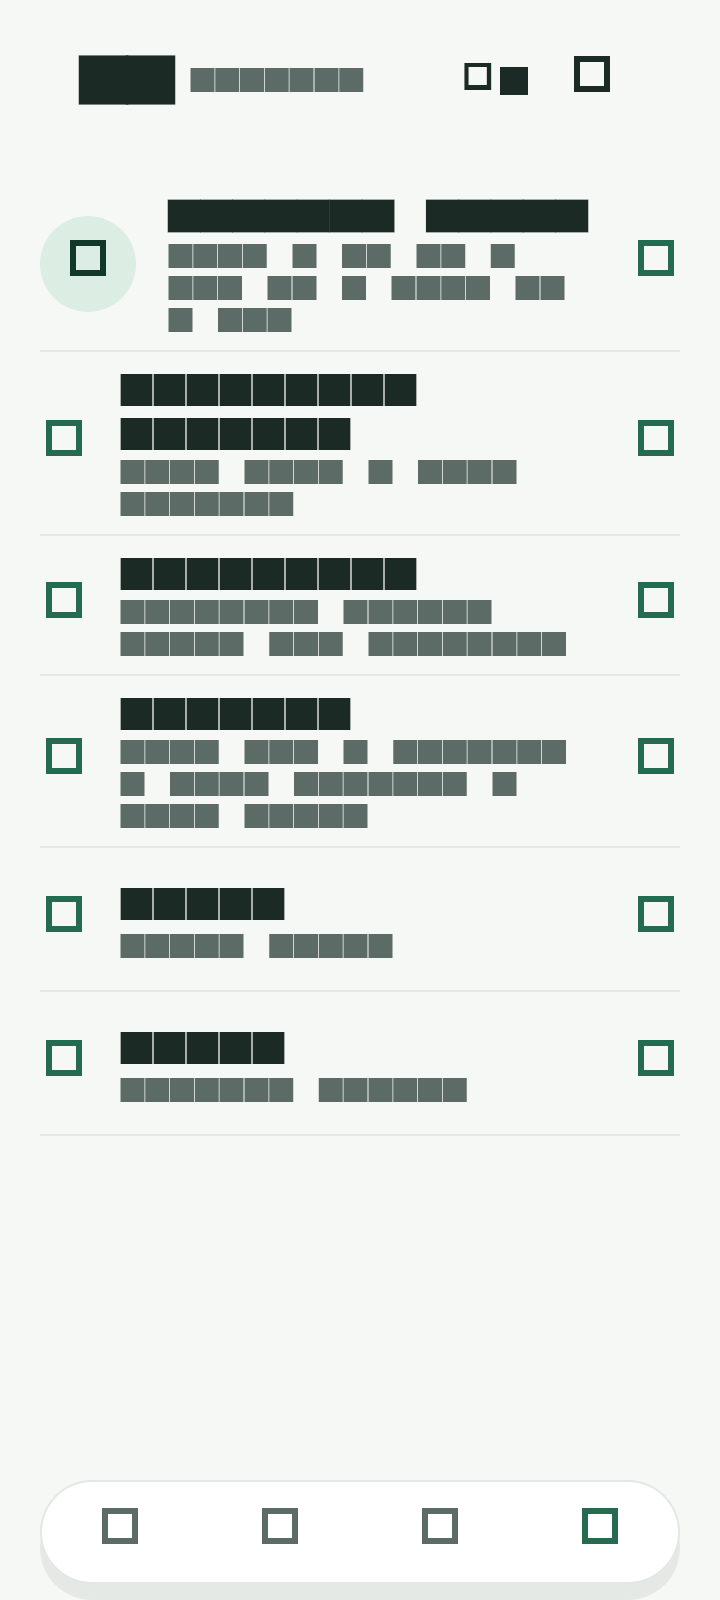
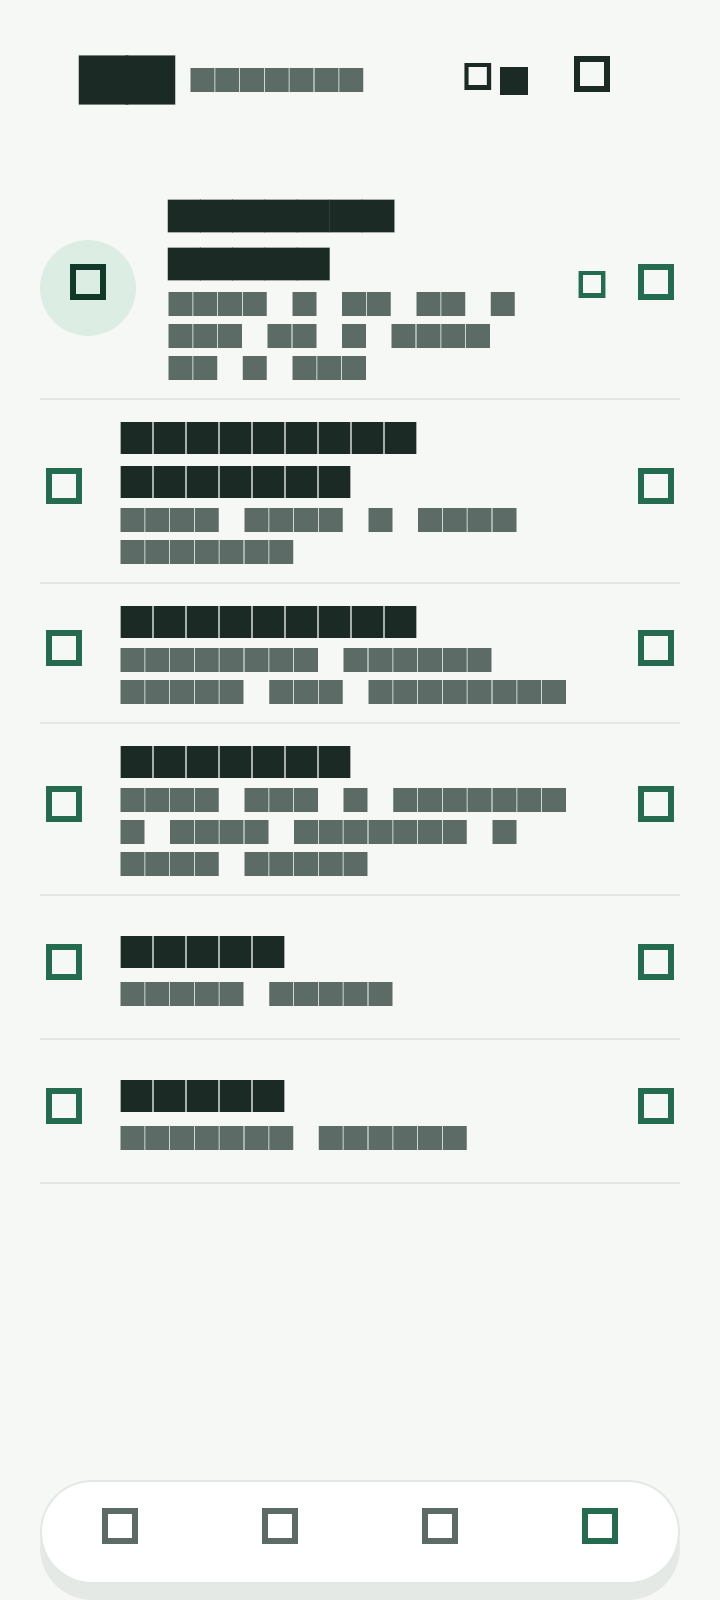
feat(profile): editable name + left-right picker fields
1. _PickerField (every AppDropdown / AppOptionalDropdown across the app) now
   lays out label on the left, value + chevron on the right — not stacked
2. the "健身小伙伴" name is now user-editable: a pencil on the profile avatar
   row opens a rename dialog; stored in prefs (`user_name`) via
   userNameProvider, falls back to the default greeting when empty

analyze clean; full suite green (158); goldens regenerated.

Claude-Session: https://claude.ai/code/session_01CWB8cLUtUBP9ZBJ1jWMsCM

diff --git a/lib/ui/profile/profile_page.dart b/lib/ui/profile/profile_page.dart
@@ -75,6 +75,39 @@ class _ProfilePageState extends ConsumerState<ProfilePage> {
     }
   }
 
+  Future<void> _renameUser() async {
+    final l10n = context.l10n;
+    final controller = TextEditingController(
+      text: ref.read(userNameProvider) ?? '',
+    );
+    final name = await showDialog<String>(
+      context: context,
+      builder: (ctx) => AlertDialog(
+        title: Text(l10n.editName),
+        content: TextField(
+          controller: controller,
+          autofocus: true,
+          maxLength: 24,
+          decoration: InputDecoration(hintText: l10n.profileGreeting),
+          onSubmitted: (v) => Navigator.pop(ctx, v),
+        ),
+        actions: [
+          TextButton(
+            onPressed: () => Navigator.pop(ctx),
+            child: Text(l10n.cancel),
+          ),
+          FilledButton(
+            onPressed: () => Navigator.pop(ctx, controller.text),
+            child: Text(l10n.save),
+          ),
+        ],
+      ),
+    );
+    controller.dispose();
+    if (name == null) return;
+    await ref.read(userNameProvider.notifier).set(name);
+  }
+
   String _nutritionSubtitle(WidgetRef ref, AppLocalizations l10n) {
     final active = ref.watch(activeDietPlanProvider).value;
     final today = ref.watch(todayTargetProvider).value;
@@ -268,7 +301,7 @@ class _ProfilePageState extends ConsumerState<ProfilePage> {
                 ),
               ),
               title: Text(
-                l10n.profileGreeting,
+                ref.watch(userNameProvider) ?? l10n.profileGreeting,
                 style: theme.textTheme.titleMedium,
               ),
               subtitle: Text(
@@ -281,7 +314,18 @@ class _ProfilePageState extends ConsumerState<ProfilePage> {
                 ),
                 style: theme.textTheme.meta,
               ),
-              trailing: const Icon(Icons.chevron_right),
+              trailing: Row(
+                mainAxisSize: MainAxisSize.min,
+                children: [
+                  IconButton(
+                    tooltip: l10n.editName,
+                    visualDensity: VisualDensity.compact,
+                    icon: const Icon(Icons.edit_outlined, size: 18),
+                    onPressed: _renameUser,
+                  ),
+                  const Icon(Icons.chevron_right),
+                ],
+              ),
               onTap: () => context.push('/profile/edit'),
             ),
             _MenuRow(

diff --git a/lib/ui/widgets/form_options.dart b/lib/ui/widgets/form_options.dart
@@ -505,22 +505,33 @@ class _PickerField extends StatelessWidget {
             borderRadius: BorderRadius.circular(12),
             onTap: onTap,
             child: Padding(
-              padding: const EdgeInsets.symmetric(horizontal: 14, vertical: 14),
+              padding: const EdgeInsets.symmetric(horizontal: 14, vertical: 12),
               child: Row(
                 children: [
                   Expanded(
-                    child: Column(
-                      crossAxisAlignment: CrossAxisAlignment.start,
-                      children: [
-                        Text(label, style: theme.textTheme.fieldLabel),
-                        const SizedBox(height: 4),
-                        Text(displayText, style: theme.textTheme.titleMedium),
-                      ],
+                    flex: 4,
+                    child: Text(
+                      label,
+                      style: theme.textTheme.bodyLarge,
+                      maxLines: 2,
+                      overflow: TextOverflow.ellipsis,
                     ),
                   ),
+                  const SizedBox(width: 12),
+                  Flexible(
+                    flex: 5,
+                    child: Text(
+                      displayText,
+                      textAlign: TextAlign.end,
+                      maxLines: 1,
+                      overflow: TextOverflow.ellipsis,
+                      style: theme.textTheme.titleMedium,
+                    ),
+                  ),
+                  const SizedBox(width: 4),
                   Icon(
                     CupertinoIcons.chevron_up_chevron_down,
-                    size: 18,
+                    size: 16,
                     color: theme.colorScheme.onSurfaceVariant,
                   ),
                 ],

diff --git a/lib/data/repositories/profile_repository.dart b/lib/data/repositories/profile_repository.dart
@@ -9,6 +9,7 @@ class ProfileRepository {
   ProfileRepository(this._prefs);
 
   static const _key = 'user_profile';
+  static const _nameKey = 'user_name';
   final SharedPreferences _prefs;
   final _calc = const CalorieCalculator();
 
@@ -195,5 +196,23 @@ class ProfileRepository {
     );
   }
 
-  Future<void> clear() async => _prefs.remove(_key);
+  /// User-chosen display name; null / empty means "use the default greeting".
+  String? loadName() {
+    final v = _prefs.getString(_nameKey)?.trim();
+    return (v == null || v.isEmpty) ? null : v;
+  }
+
+  Future<void> saveName(String? name) async {
+    final trimmed = name?.trim() ?? '';
+    if (trimmed.isEmpty) {
+      await _prefs.remove(_nameKey);
+    } else {
+      await _prefs.setString(_nameKey, trimmed);
+    }
+  }
+
+  Future<void> clear() async {
+    await _prefs.remove(_key);
+    await _prefs.remove(_nameKey);
+  }
 }

diff --git a/lib/providers/profile_providers.dart b/lib/providers/profile_providers.dart
@@ -7,6 +7,21 @@ final profileProvider = NotifierProvider<ProfileNotifier, UserProfile?>(
   ProfileNotifier.new,
 );
 
+/// User-chosen display name; null means "use the default greeting".
+final userNameProvider = NotifierProvider<UserNameNotifier, String?>(
+  UserNameNotifier.new,
+);
+
+class UserNameNotifier extends Notifier<String?> {
+  @override
+  String? build() => ref.read(profileRepositoryProvider).loadName();
+
+  Future<void> set(String? name) async {
+    await ref.read(profileRepositoryProvider).saveName(name);
+    state = ref.read(profileRepositoryProvider).loadName();
+  }
+}
+
 class ProfileNotifier extends Notifier<UserProfile?> {
   @override
   UserProfile? build() {

diff --git a/lib/l10n/app_localizations.dart b/lib/l10n/app_localizations.dart
@@ -4305,6 +4305,12 @@ abstract class AppLocalizations {
   /// **'Fitness buddy'**
   String get profileGreeting;
 
+  /// No description provided for @editName.
+  ///
+  /// In en, this message translates to:
+  /// **'Edit name'**
+  String get editName;
+
   /// No description provided for @profileTagline.
   ///
   /// In en, this message translates to:

diff --git a/lib/l10n/app_localizations_zh.dart b/lib/l10n/app_localizations_zh.dart
@@ -2390,6 +2390,9 @@ class AppLocalizationsZh extends AppLocalizations {
   String get profileGreeting => '健身小伙伴';
 
   @override
+  String get editName => '修改昵称';
+
+  @override
   String get profileTagline => '坚持，让更好的自己出现';
 
   @override

diff --git a/lib/l10n/app_localizations_en.dart b/lib/l10n/app_localizations_en.dart
@@ -2449,6 +2449,9 @@ class AppLocalizationsEn extends AppLocalizations {
   String get profileGreeting => 'Fitness buddy';
 
   @override
+  String get editName => 'Edit name';
+
+  @override
   String get profileTagline => 'Keep going — a better you is coming';
 
   @override
